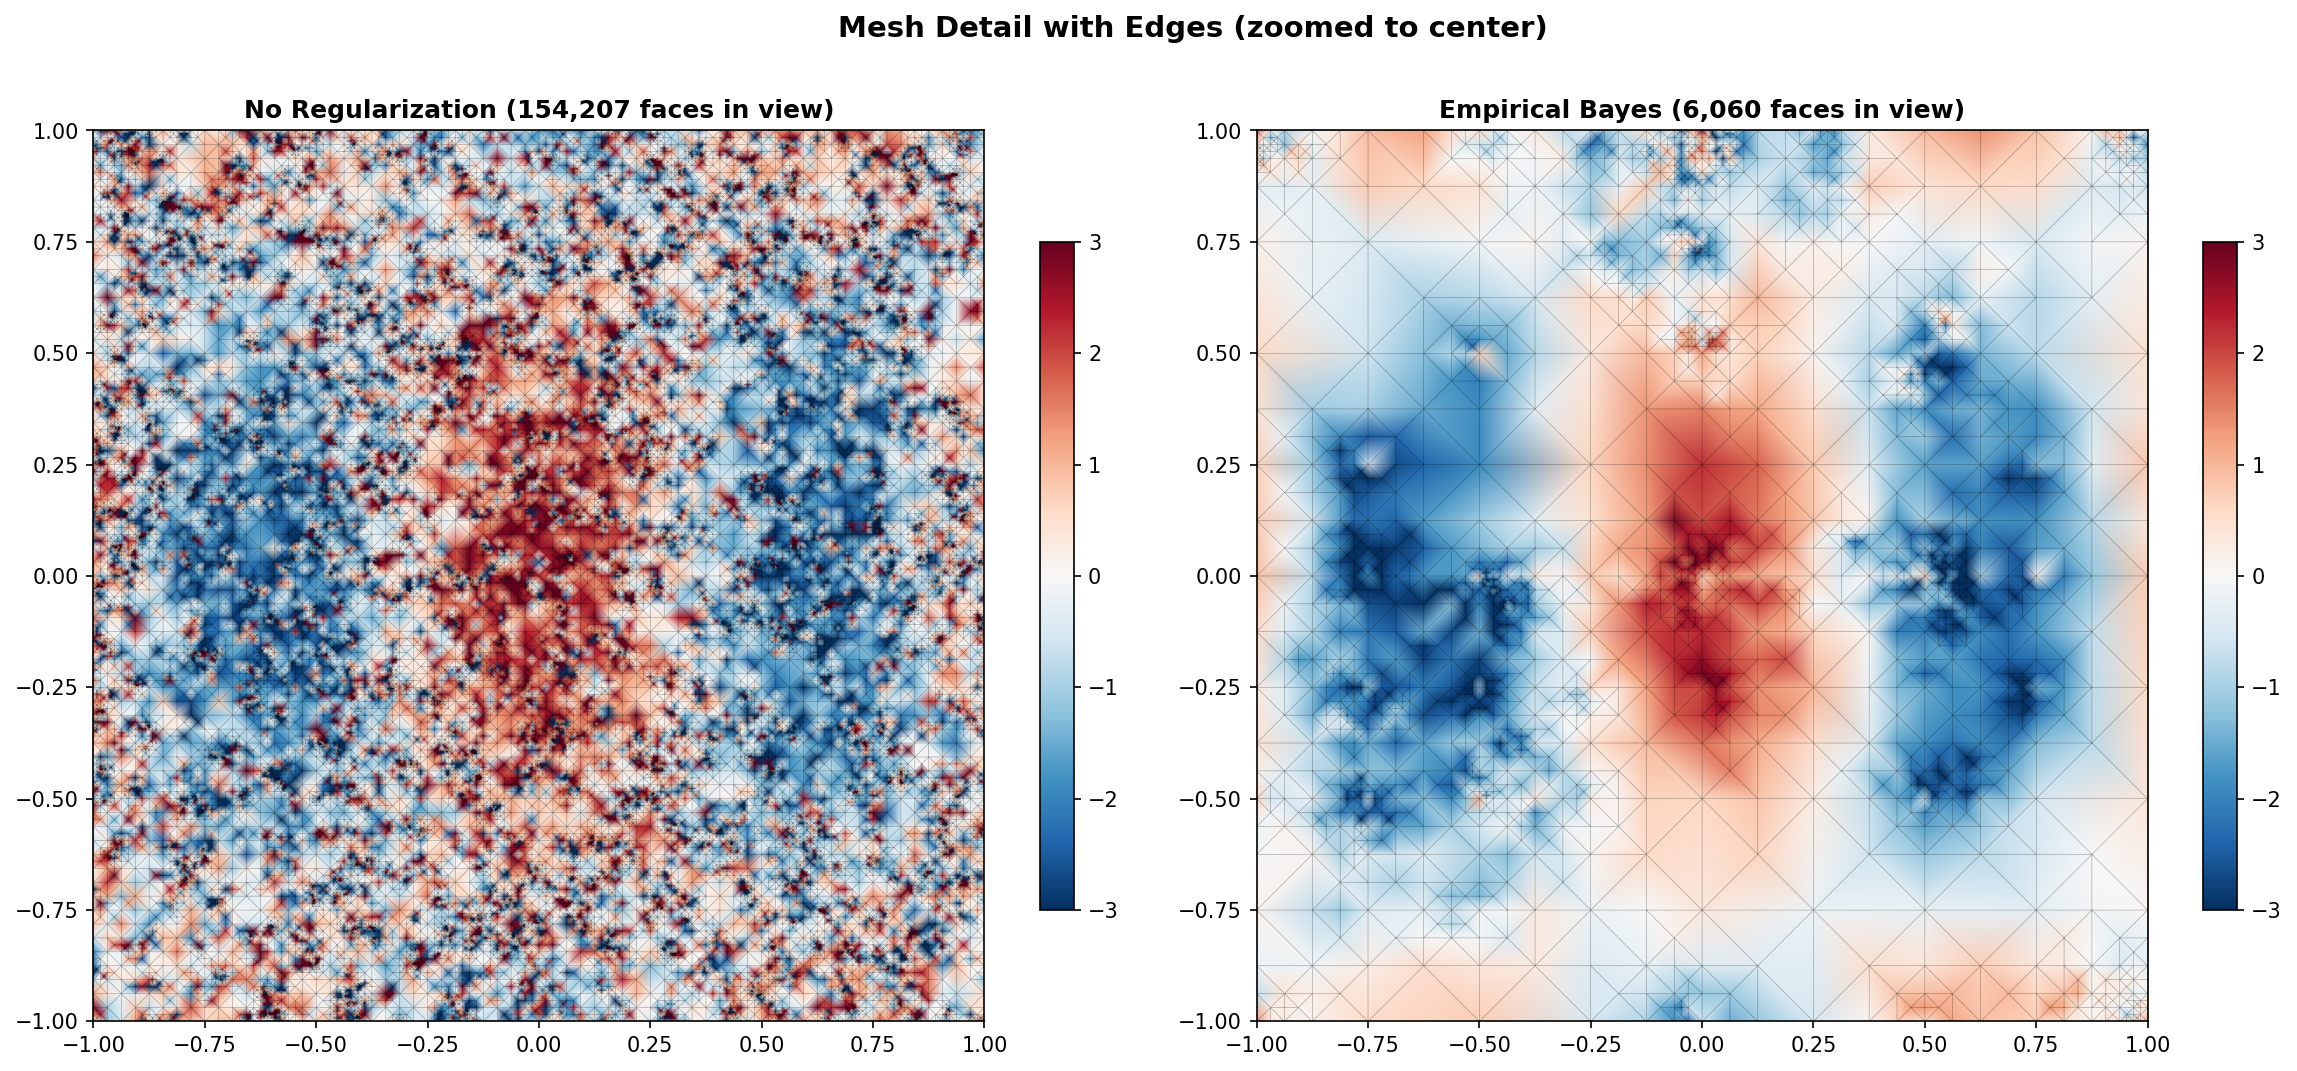
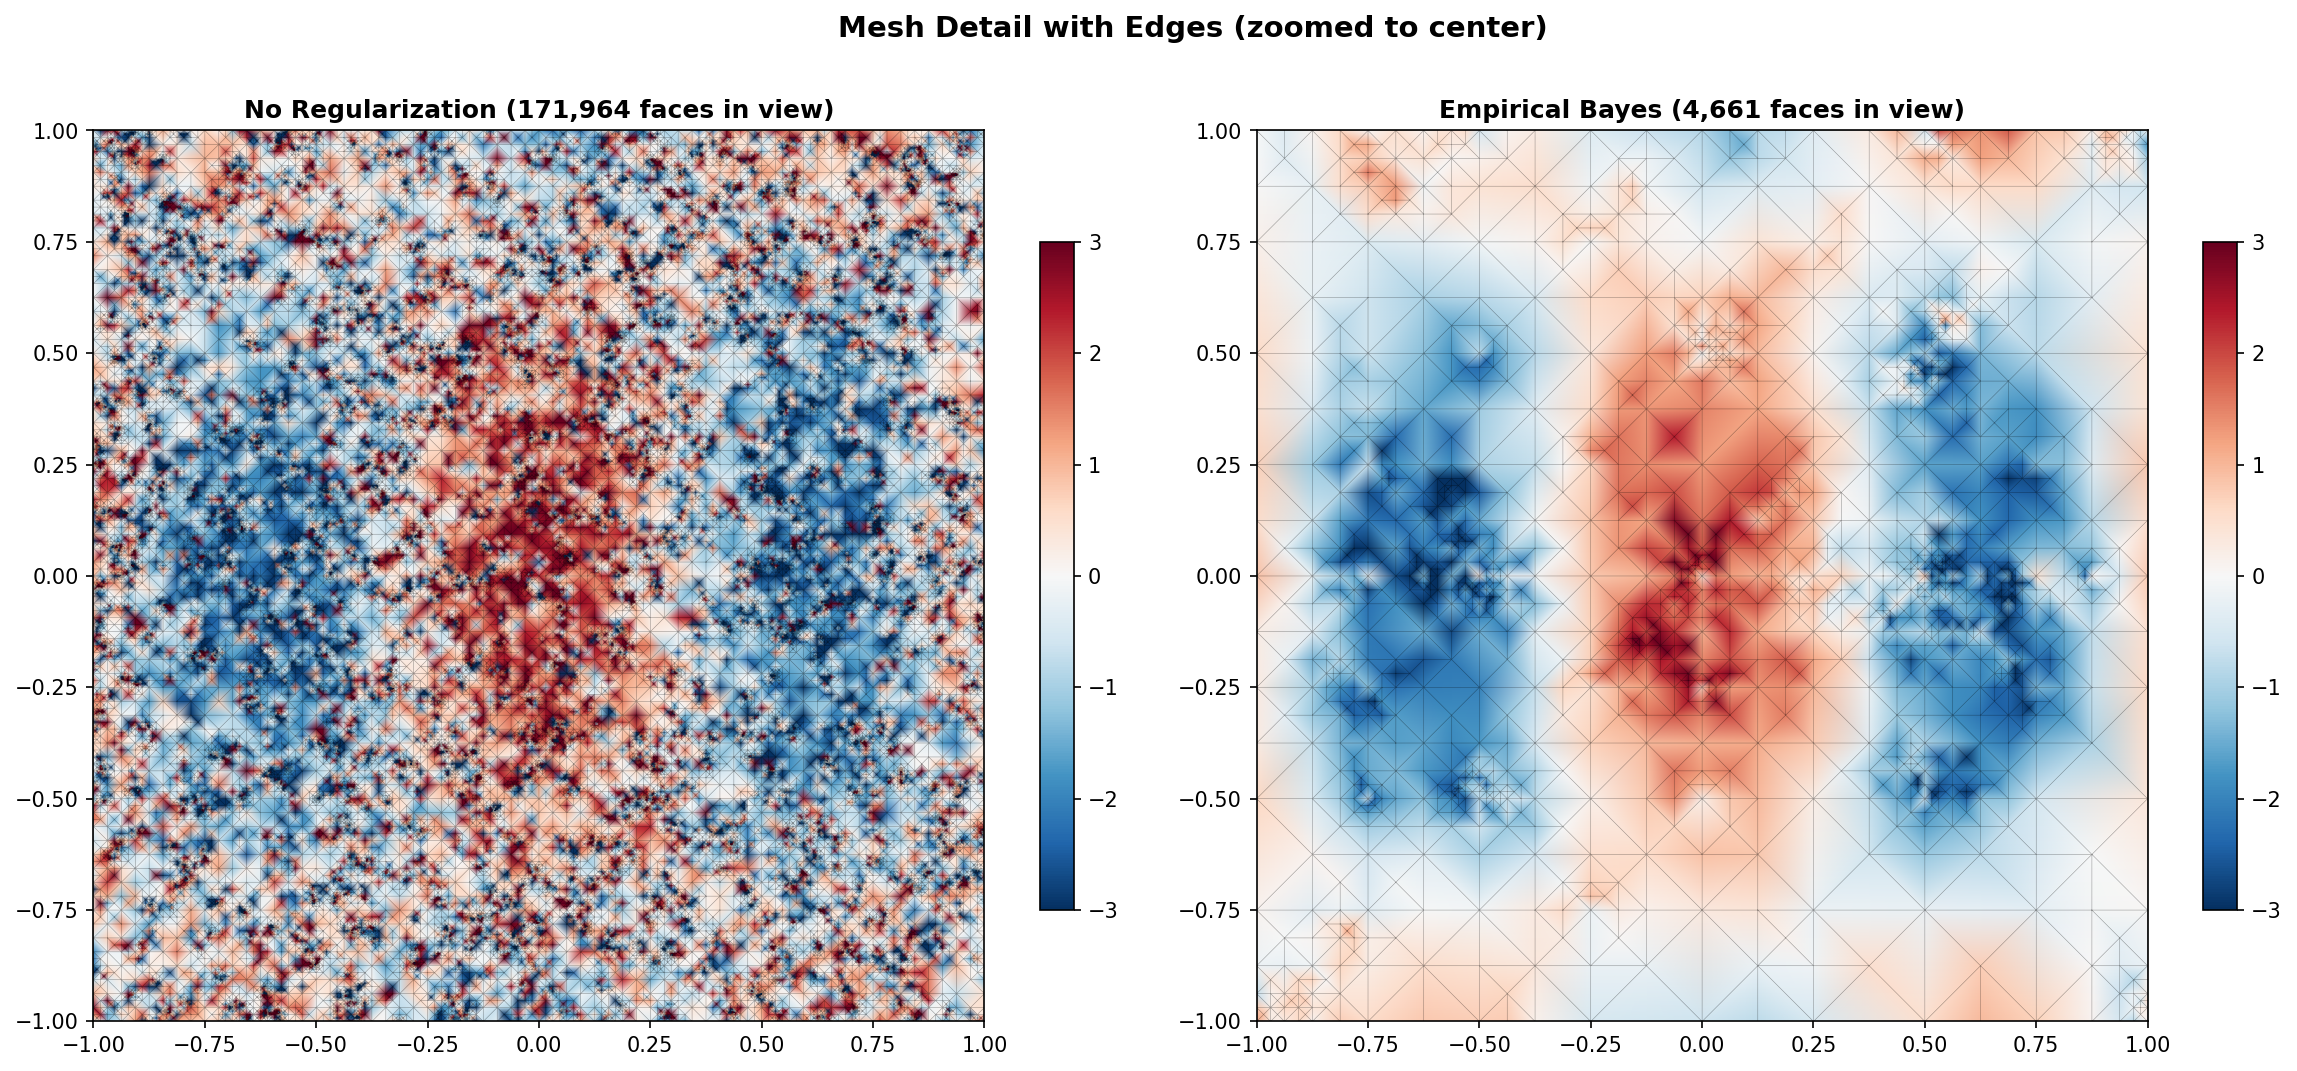
Add height vs shrinkage side-by-side visualization
- Export shrinkage factor and depth in vertex CSV (mesh.cpp)
- New plot_shrinkage.py: left panel shows EB height (RdBu_r),
  right panel shows shrinkage factor λ/(λ+xTx) on magma_r scale
  where 0 = pure data, 1 = fully shrunk to prior
- Regenerated all PNGs with fresh run data

https://claude.ai/code/session_01VesChT76TDEvHJ2z3U3kLU

diff --git a/cpp/plot_shrinkage.py b/cpp/plot_shrinkage.py
@@ -1,0 +1,53 @@
+#!/usr/bin/env python3
+"""
+Side-by-side visualization: EB mesh height (left) and shrinkage factor (right).
+Shrinkage = lambda_v / (lambda_v + xTx), ranges 0 (pure data) to 1 (fully shrunk to prior).
+"""
+import numpy as np
+import pandas as pd
+import matplotlib
+matplotlib.use("Agg")
+import matplotlib.pyplot as plt
+import matplotlib.tri as mtri
+
+
+def main():
+    verts = pd.read_csv("mesh_eb_vertices.csv")
+    tris = pd.read_csv("mesh_eb_triangles.csv")
+    print(f"EB mesh: {len(verts)} vertices, {len(tris)} faces")
+    print(f"Shrinkage range: [{verts['shrinkage'].min():.4f}, {verts['shrinkage'].max():.4f}]")
+    print(f"Depth range: [{verts['depth'].min()}, {verts['depth'].max()}]")
+
+    tri = mtri.Triangulation(verts["x"].values, verts["y"].values,
+                             triangles=tris[["v0", "v1", "v2"]].values)
+
+    fig, (ax_h, ax_s) = plt.subplots(1, 2, figsize=(16, 6.5))
+
+    # Left: height
+    vlim = 3.0
+    tpc_h = ax_h.tripcolor(tri, verts["height"].values, shading="gouraud",
+                            cmap="RdBu_r", vmin=-vlim, vmax=vlim, rasterized=True)
+    ax_h.set_aspect("equal", "box")
+    ax_h.set_title("Vertex Height", fontsize=13, fontweight="bold")
+    cb_h = fig.colorbar(tpc_h, ax=ax_h, shrink=0.75)
+    cb_h.set_label("height")
+
+    # Right: shrinkage
+    tpc_s = ax_s.tripcolor(tri, verts["shrinkage"].values, shading="gouraud",
+                            cmap="magma_r", vmin=0, vmax=1, rasterized=True)
+    ax_s.set_aspect("equal", "box")
+    ax_s.set_title("Shrinkage Factor", fontsize=13, fontweight="bold")
+    cb_s = fig.colorbar(tpc_s, ax=ax_s, shrink=0.75)
+    cb_s.set_label(r"$\lambda_v / (\lambda_v + x^T x)$    [0 = data, 1 = prior]")
+
+    fig.suptitle(f"Empirical Bayes: Height vs Shrinkage ({len(tris):,} faces)",
+                 fontsize=14, fontweight="bold", y=1.0)
+    plt.tight_layout()
+    out = "mesh_shrinkage.png"
+    plt.savefig(out, dpi=150, bbox_inches="tight")
+    print(f"Saved {out}")
+    plt.close(fig)
+
+
+if __name__ == "__main__":
+    main()

diff --git a/cpp/mesh.cpp b/cpp/mesh.cpp
@@ -507,12 +507,16 @@ void DecisionMesh::write_mesh_csv(const std::string& prefix) const {
         vid[v] = next_id++;
     }
 
-    // Write vertices: id, x, y, height
+    // Write vertices: id, x, y, height, shrinkage, depth
     {
         std::ofstream out(prefix + "_vertices.csv");
-        out << "id,x,y,height\n";
+        out << "id,x,y,height,shrinkage,depth\n";
         for (const Vertex* v : vertices) {
-            out << vid[v] << "," << v->x << "," << v->y << "," << v->height << "\n";
+            // shrinkage = lambda_v / (lambda_v + xTx), where xTx = 1/sigma_sq
+            double xTx = (v->sigma_sq > 0 && v->sigma_sq < 1e200) ? 1.0 / v->sigma_sq : 0.0;
+            double shrinkage = (v->lambda_v + xTx > 0) ? v->lambda_v / (v->lambda_v + xTx) : 0.0;
+            out << vid[v] << "," << v->x << "," << v->y << "," << v->height
+                << "," << shrinkage << "," << v->depth << "\n";
         }
     }
 
